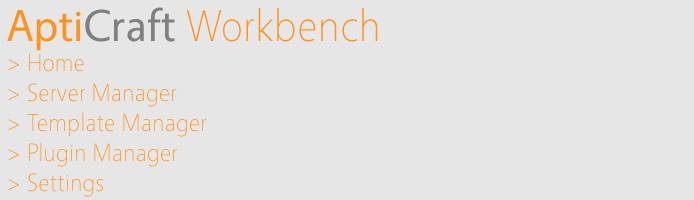
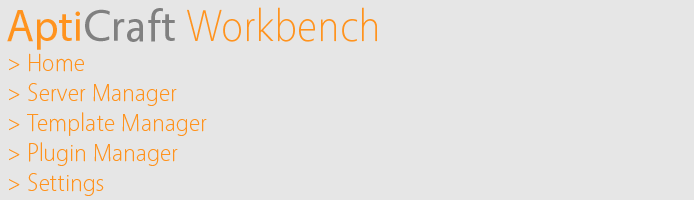
Provided a less anti-aliased header. It is easier to read now.

diff --git a/AptiCraft_Classroom/src/com/AptiTekk/AptiCraft/Classroom/Workbench.java b/AptiCraft_Classroom/src/com/AptiTekk/AptiCraft/Classroom/Workbench.java
@@ -108,8 +108,6 @@ public class Workbench extends JFrame implements MouseListener
 	
 	this.pack();
 	this.setVisible(false);
-	
-	System.out.println(headerPanel.getSize());
     }
     
     private void loadImages()
